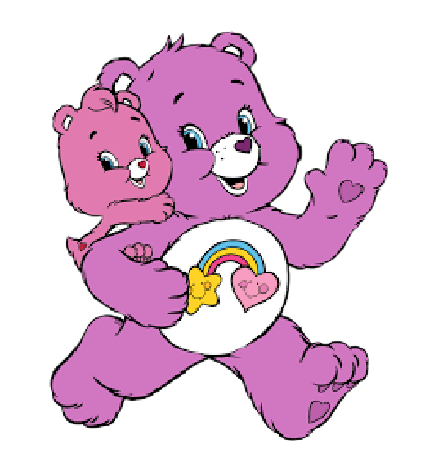
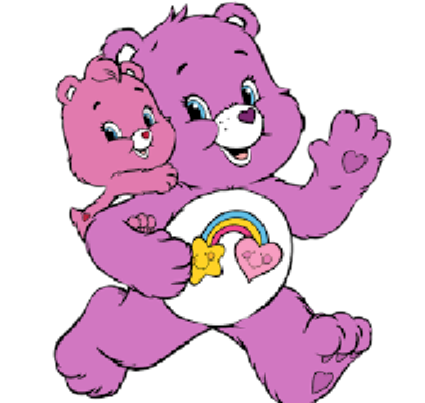
modified character carousel to card deck

Changed region(s): [[0.0918, 0.0, 0.9482, 1.0], [0.7647, 0.4467, 0.7953, 0.4764]]

diff --git a/index.html b/index.html
@@ -89,26 +89,26 @@
             <a href="#">Game Intro</a>
             <a href="#">How to Play</a>
             <a id="characterBtn">Character Select</a>
-             <!--Update button css so that it looks like a menu item and not a button-->
+            </div>
           </div>
-        </div>
         <!-- The Character Select Modal -->
         <div id="characterModal" class="modal">
         <!-- Modal content -->
         <div class="modal-content">
+          <!-- Modal Header -->
         <div id="grad1" class="modal-header"> <!-- Rainbow gradient header -->
           <span class="close">&times;</span>
           <h2></h2>
         </div>
-        <!-- Modal Card Row -->
-        <div class="w3-row-padding">
+        <!-- Modal Body - Card Deck -->
+        <div class="modal-body card-deck">
         
         <!-- GRUMPY BEAR CARD -->
-        <div class="modal-body w3-container w3-third">
+        <div class="nothing">
           <div class="flip-card">
             <div class="flip-card-inner">
               <div class="flip-card-front">
-                <img src="assets/images/carebears/grumpybear-removebg-preview.png" alt="GrumpyBearAvatar" style="width:300px;height:300px;">
+                <img src="assets/images/carebears/grumpybear.png" alt="GrumpyBearAvatar" style="width:300px;height:300px;">
               </div>
               <div class="flip-card-back">
                 <h1>Grumpy Bear</h1> 
@@ -127,11 +127,11 @@
           </div>
         </div>
         <!-- LOVE-A-LOT BEAR CARD-->
-        <div class="modal-body w3-container w3-third">
+        <div class="nothing">
           <div class="flip-card">
             <div class="flip-card-inner">
               <div class="flip-card-front">
-                <img src="assets/images/carebears/lovealotbear-removebg-preview.png" alt="LovealotBearAvatar" style="width:300px;height:300px;">
+                <img src="assets/images/carebears/lovealotbear.png" alt="LovealotBearAvatar" style="width:300px;height:300px;">
               </div>
               <div class="flip-card-back">
                 <h1>Love-a-lot Bear</h1> 
@@ -150,11 +150,11 @@
           </div>
         </div>
         <!-- FUNSHINE BEAR CARD-->
-        <div class="modal-body w3-container w3-third">
+        <div class="nothing">
           <div class="flip-card">
             <div class="flip-card-inner">
               <div class="flip-card-front">
-                <img src="assets/images/carebears/funshine-bear-edited.png" alt="FunshineBearAvatar" style="width:300px;height:300px;">
+                <img src="assets/images/carebears/funshinebear.png" alt="FunshineBearAvatar" style="width:300px;height:300px;">
               </div>
               <div class="flip-card-back">
                 <h1>Funshine Bear</h1> 
@@ -173,11 +173,11 @@
           </div>
         </div>
          <!-- FRIEND BEAR CARD-->
-         <div class="modal-body w3-container w3-third">
+         <div class="nothing">
           <div class="flip-card">
             <div class="flip-card-inner">
               <div class="flip-card-front">
-                <img src="assets/images/carebears/friend-bear-removebg-preview.png" alt="FriendBearAvatar" style="width:300px;height:300px;">
+                <img src="assets/images/carebears/friendbear.png" alt="FriendBearAvatar" style="width:300px;height:300px;">
               </div>
               <div class="flip-card-back">
                 <h1>Friend Bear</h1> 
@@ -196,11 +196,11 @@
           </div>
         </div>
         <!-- CHEER BEAR CARD-->
-        <div class="modal-body w3-container w3-third">
+        <div class="nothing">
           <div class="flip-card">
             <div class="flip-card-inner">
               <div class="flip-card-front">
-                <img src="assets/images/carebears/cheer-bear-removebg-preview.png" alt="CheerBearAvatar" style="width:300px;height:300px;">
+                <img src="assets/images/carebears/cheerbear.png" alt="CheerBearAvatar" style="width:300px;height:300px;">
               </div>
               <div class="flip-card-back">
                 <h1>Cheer Bear </h1> 
@@ -219,6 +219,7 @@
           </div>
         </div>
         </div>
+         <!-- Modal Footer -->
         <div id="grad1" class="modal-footer"> <!-- Rainbow gradient footer -->
           <h3></h3>
         </div>

diff --git a/modal carousel.html b/modal carousel.html
@@ -20,7 +20,7 @@
             <span class="close">&times;</span>
             <h2></h2>
         </div>
-      <div id="carousel-example-1z" class="carousel slide carousel-fade" data-ride="carousel">
+      <div id="carousel-example-1z" class="carousel carousel-fade">
        <ol class="carousel-indicators">
         <li data-target="#carousel-example-1z" data-slide-to="0" class="active"></li>
         <li data-target="#carousel-example-1z" data-slide-to="1"></li>
@@ -30,19 +30,19 @@
        </ol>
        <div class="carousel-inner" role="listbox">
         <div class="carousel-item active">
-            <img class="d-block w-100" src="assets/images/carebears/grumpybear-removebg-preview.png" width="200" height="300" alt="First slide">
+            <img class="d-block w-100" src="assets/images/carebears/grumpybear.png" alt="First slide">
         </div>
         <div class="carousel-item">
-         <img class="d-block w-100" src="assets/images/carebears/lovealotbear-removebg-preview.png" width="200" height="300" alt="Second slide">
+         <img class="d-block w-100" src="assets/images/carebears/lovealotbear.png" alt="Second slide">
         </div>
         <div class="carousel-item">
-         <img class="d-block w-100" src="assets/images/carebears/funshine-bear-edited.png" width="200" height="300" alt="Third slide">
+         <img class="d-block w-100" src="assets/images/carebears/funshinebear.png" alt="Third slide">
         </div>
         <div class="carousel-item">
-            <img class="d-block w-100" src="assets/images/carebears/friend-bear-removebg-preview.png" width="200" height="300" alt="Fourth slide">
+            <img class="d-block w-100" src="assets/images/carebears/friendbear.png" alt="Fourth slide">
         </div>
         <div class="carousel-item">
-            <img class="d-block w-100" src="assets/images/carebears/cheer-bear-removebg-preview.png" width="200" height="300" alt="Fifth slide">
+            <img class="d-block w-100" src="assets/images/carebears/cheerbear.png" alt="Fifth slide">
         </div>
        </div>
        <a class="carousel-control-prev" href="#carousel-example-1z" role="button" data-slide="prev">
